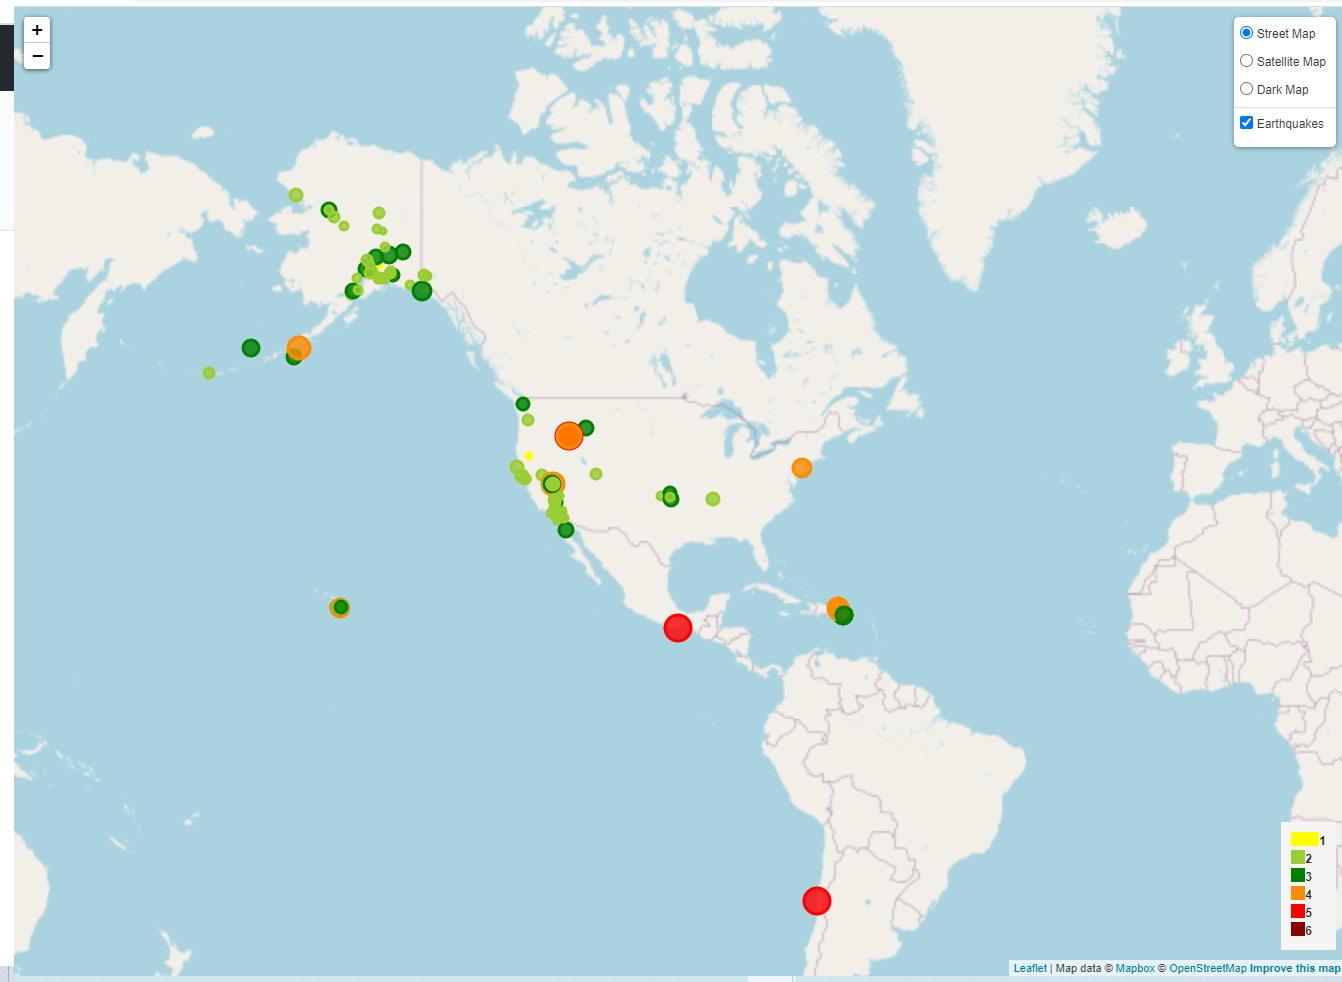
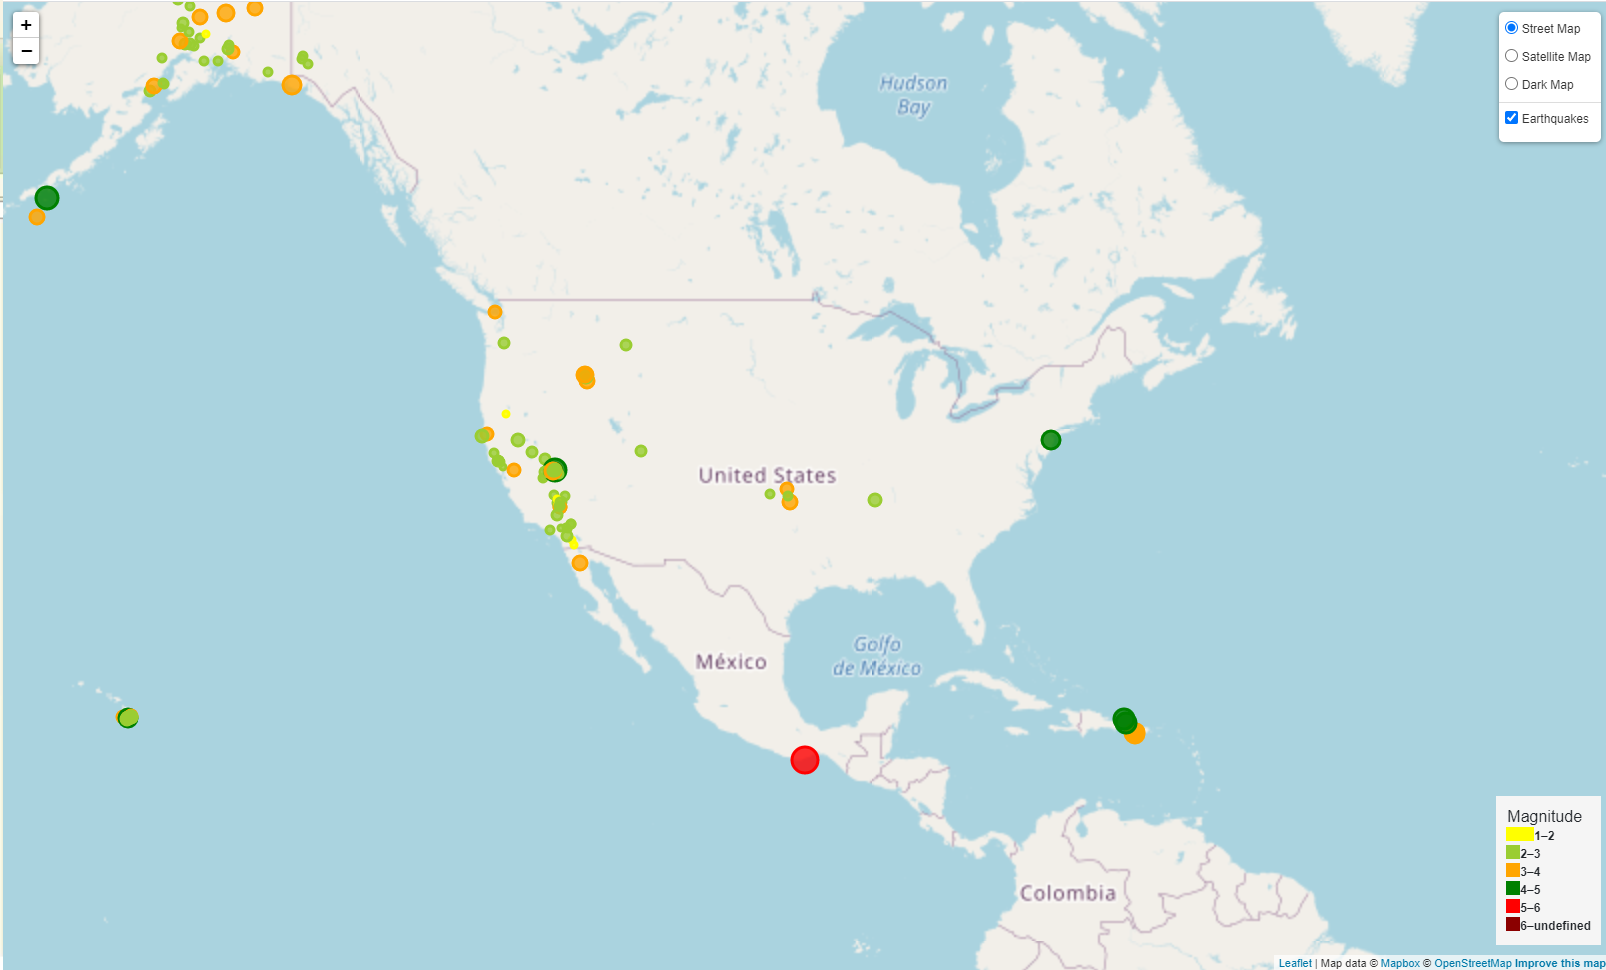
updates

diff --git a/Leaflet-Step-1/static/js/logic.js b/Leaflet-Step-1/static/js/logic.js
@@ -2,7 +2,7 @@
 var queryUrl = "https://earthquake.usgs.gov/earthquakes/feed/v1.0/summary/1.0_day.geojson"
   console.log(queryUrl)
 
-var plates = "https://github.com/fraxen/tectonicplates/blob/master/GeoJSON/PB2002_plates.json"
+// var plates = "https://github.com/fraxen/tectonicplates/blob/master/GeoJSON/PB2002_plates.json"
 
 // Perform a GET request to the query URL
 d3.json(queryUrl, function(data) {
@@ -23,10 +23,10 @@ function getColor(magnitude) {
     return "red";
   }
   else if (magnitude > 3) {
-   return "darkorange";
+   return "green";
   }
   else if (magnitude > 2) {
-    return "green";
+    return "orange";
   }
   else if (magnitude > 1) {
     return "yellowgreen";
@@ -122,7 +122,7 @@ function createMap(earthquakes) {
         colors = [0,1,2,3,4,5,6];
         labels= []
         div.innerHTML += "<h6 style='margin:1px'>Magnitude</h6>"
-        //colors = ['yellow', 'yellowgreen','green', 'darkorange', 'red', 'darkred'];
+        //colors = ['yellow', 'yellowgreen','orange', 'green', 'red', 'darkred'];
         for (var i = 0; i < colors.length; i++) {
             div.innerHTML +=
                 '<i style="background:' + getColor(colors[i]) + '"></i> ' +
